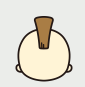
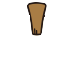
first commit

diff --git a/original character maker/ViewController.swift b/original character maker/ViewController.swift
@@ -8,18 +8,138 @@
 
 import UIKit
 
-class ViewController: UIViewController {
-
+class ViewController: UIViewController, UIActionSheetDelegate {
+    
+    @IBOutlet var noseImageView: UIImageView!
+    @IBOutlet var eyeImageView: UIImageView!
+    @IBOutlet var hairImageView: UIImageView!
+    @IBOutlet var facelineImageView: UIImageView!
+    @IBOutlet var part1Bt: UIButton!
+    @IBOutlet var part2Bt: UIButton!
+    @IBOutlet var part3Bt: UIButton!
+    @IBOutlet var part4Bt: UIButton!
+    
+    var number: Int = 0
+    
     override func viewDidLoad() {
         super.viewDidLoad()
         // Do any additional setup after loading the view, typically from a nib.
+        let longPressGesture = UILongPressGestureRecognizer(target: self, action: "longPressGesture:")
+        longPressGesture.minimumPressDuration = 1.0
+        longPressGesture.allowableMovement = 150
+        self.view.addGestureRecognizer(longPressGesture)
     }
-
+    func longPressGesture(sender: UILongPressGestureRecognizer){
+        if sender.state == UIGestureRecognizerState.Began {
+            let sheet: UIActionSheet = UIActionSheet()
+            sheet.delegate = self
+            sheet.title = "画像を保存しますか？byながた"
+            sheet.addButtonWithTitle("Cancel")
+            sheet.addButtonWithTitle("画像を保存")
+            sheet.cancelButtonIndex = 0
+            sheet.showInView(self.view)
+        }
+    }
+    
     override func didReceiveMemoryWarning() {
         super.didReceiveMemoryWarning()
         // Dispose of any resources that can be recreated.
     }
-
-
+    
+    @IBAction func tapEyeBt(){
+        //ボタンの画像を切り替える
+        part1Bt.setBackgroundImage(UIImage(named: "eye1.png"), forState: UIControlState.Normal)
+        part2Bt.setBackgroundImage(UIImage(named: "eye2.png"), forState: UIControlState.Normal)
+        part3Bt.setBackgroundImage(UIImage(named: "eye3.png"), forState: UIControlState.Normal)
+        part4Bt.setBackgroundImage(UIImage(named: "eye4.png"), forState: UIControlState.Normal)
+        number = 1
+        
+    }
+    @IBAction func tapNoseBt(){
+        //ボタンの画像を切り替える
+        part1Bt.setBackgroundImage(UIImage(named: "nose1.png"), forState: UIControlState.Normal)
+        part2Bt.setBackgroundImage(UIImage(named: "nose2.png"), forState: UIControlState.Normal)
+        part3Bt.setBackgroundImage(UIImage(named: "nose3.png"), forState: UIControlState.Normal)
+        part4Bt.setBackgroundImage(UIImage(named: "nose4.png"), forState: UIControlState.Normal)
+        number = 2
+        
+    }
+    @IBAction func tapHairBt(){
+        //ボタンの画像を切り替える
+        part1Bt.setBackgroundImage(UIImage(named: "hair1.png"), forState: UIControlState.Normal)
+        part2Bt.setBackgroundImage(UIImage(named: "hair2.png"), forState: UIControlState.Normal)
+        part3Bt.setBackgroundImage(UIImage(named: "hair3.png"), forState: UIControlState.Normal)
+        part4Bt.setBackgroundImage(UIImage(named: "hair4.png"), forState: UIControlState.Normal)
+        number = 3
+        
+    }
+    
+    @IBAction func tapPart1Bt(sender: UIButton){
+        
+        
+        switch number {
+        case 1:
+            let imageName = "eye" + String(sender.tag) + ".png"
+            eyeImageView.image = UIImage(named: imageName)
+        case 2:
+            let imageName = "nose" + String(sender.tag) + ".png"
+            noseImageView.image = UIImage(named: imageName)
+        case 3:
+            let imageName = "hair" + String(sender.tag) + ".png"
+            hairImageView.image = UIImage(named: imageName)
+        default:
+            break
+        }
+        
+        
+    }
+    
+    func actionSheet(actionSheet: UIActionSheet, clickedButtonAtIndex buttonIndex: Int) {
+        if buttonIndex == 1 {
+            UIGraphicsBeginImageContextWithOptions(CGSizeMake(288, 288), true,0)
+            let imageArray: [UIImageView?] = [facelineImageView, noseImageView,hairImageView,eyeImageView]
+            for item in imageArray{
+                let image = item?.image
+                image!.drawInRect(item!.frame)
+            }
+            var faceImage = UIGraphicsGetImageFromCurrentImageContext()
+            UIGraphicsEndImageContext()
+            
+            UIImageWriteToSavedPhotosAlbum(faceImage, nil, nil, nil)
+        }
+        
+    }
+    
+    //保存ボタンを押したら
+    @IBAction func tapImageBt(){
+        //ビットマップ形式のグラフィックスコンテキストの生成
+        UIGraphicsBeginImageContextWithOptions(CGSizeMake(288, 288), true,0)
+        let imageArray: [UIImageView?] = [facelineImageView, noseImageView,hairImageView,eyeImageView]
+        for item in imageArray{
+            let image = item?.image
+            image!.drawInRect(item!.frame)
+        }
+        var faceImage = UIGraphicsGetImageFromCurrentImageContext()
+        UIGraphicsEndImageContext()
+        
+        UIImageWriteToSavedPhotosAlbum(faceImage, nil, nil, nil)
+    }
+    //    @IBAction func tapPart2Bt(){
+    //        switch number {
+    //        case 1:
+    //            eyeImageView.image = UIImage(named: "eye2.png")
+    //        case 2:
+    //            noseImageView.image = UIImage(named: "nose2.png")
+    //        case 3:
+    //            hairImageView.image = UIImage(named: "hair2.png")
+    //        default:
+    //            break
+    //        }
+    
+    //    }
+    
+    
+    
+    
 }
 
